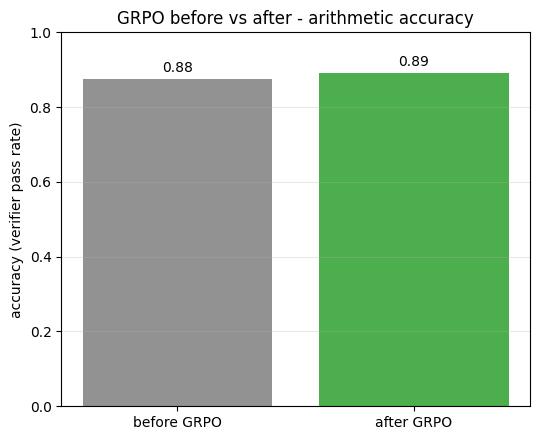
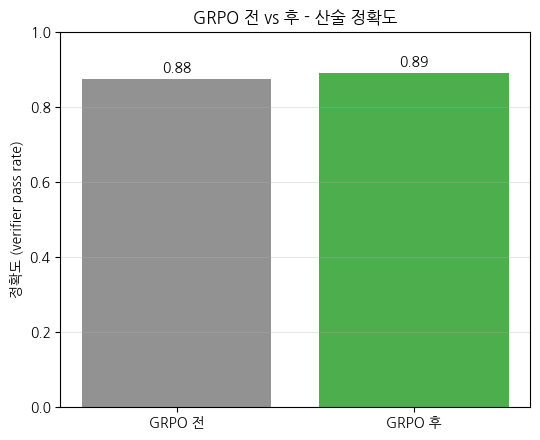
Ch 31 WikiDocs 변환 — executed 한글 plot 재생성
Claude-Session: https://claude.ai/code/session_01WacYaM89hZLnSLh4o6sjrA

diff --git a/pages/31-grpo-practice.md b/pages/31-grpo-practice.md
@@ -9,14 +9,15 @@
 **▶ 실행 결과**
 
 ```text
-   ━━━━━━━━━━━━━━━━━━━━━━━━━━━━━━━━━━━━━━━━ 825.1/825.1 kB 25.9 MB/s eta 0:00:00
-   ━━━━━━━━━━━━━━━━━━━━━━━━━━━━━━━━━━━━━━━━ 11.2/11.2 MB 97.3 MB/s eta 0:00:00
-   ━━━━━━━━━━━━━━━━━━━━━━━━━━━━━━━━━━━━━━━━ 555.1/555.1 kB 28.7 MB/s eta 0:00:00
-   ━━━━━━━━━━━━━━━━━━━━━━━━━━━━━━━━━━━━━━━━ 389.2/389.2 kB 24.4 MB/s eta 0:00:00
-   ━━━━━━━━━━━━━━━━━━━━━━━━━━━━╸━━━━━━━━━━━ 34.9/48.9 MB 192.2 MB/s eta 0:00:01
-   ━━━━━━━━━━━━━━━━━━━━━━━━━━━━━━━━━━━━━━━╸ 48.9/48.9 MB 156.2 MB/s eta 0:00:01
-   ━━━━━━━━━━━━━━━━━━━━━━━━━━━━━━━━━━━━━━━╸ 48.9/48.9 MB 156.2 MB/s eta 0:00:01
-   ━━━━━━━━━━━━━━━━━━━━━━━━━━━━━━━━━━━━━━━━ 48.9/48.9 MB 15.0 MB/s eta 0:00:00
+   ━━━━━━━━━━━━━━━━━━━━━━━━━━━━━━━━━━━━━━━━ 825.1/825.1 kB 21.8 MB/s eta 0:00:00
+   ━━━━━━━━━━━━━━━━━━━━━━╺━━━━━━━━━━━━━━━━━ 6.2/11.2 MB 185.6 MB/s eta 0:00:01
+   ━━━━━━━━━━━━━━━━━━━━━━━━━━━━━━━━━━━━━━━━ 11.2/11.2 MB 120.5 MB/s eta 0:00:00
+   ━━━━━━━━━━━━━━━━━━━━━━━━━━━━━━━━━━━━━━━━ 555.1/555.1 kB 48.9 MB/s eta 0:00:00
+   ━━━━━━━━━━━━━━━━━━━━━━━━━━━━━━━━━━━━━━━━ 389.2/389.2 kB 39.5 MB/s eta 0:00:00
+   ━━━━━━━━━━━━━━━━━━━━━━╺━━━━━━━━━━━━━━━━━ 26.9/48.9 MB 179.3 MB/s eta 0:00:01
+   ━━━━━━━━━━━━━━━━━━━━━━━━━━━━━━━━━━━━━━━╸ 48.9/48.9 MB 215.2 MB/s eta 0:00:01
+   ━━━━━━━━━━━━━━━━━━━━━━━━━━━━━━━━━━━━━━━╸ 48.9/48.9 MB 215.2 MB/s eta 0:00:01
+   ━━━━━━━━━━━━━━━━━━━━━━━━━━━━━━━━━━━━━━━━ 48.9/48.9 MB 19.4 MB/s eta 0:00:00
 ```
 
 ```python
@@ -62,6 +63,15 @@ random.seed(SEED)
 # fp16 은 CUDA 에서만 (MPS 는 미지원, CPU 는 의미 없음)
 USE_FP16 = (device.type == "cuda")
 print(f"use fp16     : {USE_FP16}")
+
+# matplotlib 한글 폰트 (Colab — NanumGothic). plot 의 한국어가 □ 로 깨지지 않게.
+import matplotlib.pyplot as plt, matplotlib.font_manager as fm, subprocess, os
+_fp = "/usr/share/fonts/truetype/nanum/NanumGothic.ttf"
+if not os.path.exists(_fp):
+    subprocess.run("apt-get -qq -y install fonts-nanum", shell=True)
+fm.fontManager.addfont(_fp)
+plt.rcParams["font.family"] = "NanumGothic"
+plt.rcParams["axes.unicode_minus"] = False
 ```
 
 **▶ 실행 결과**
@@ -167,7 +177,7 @@ transformer.h.{0...11}.attn.masked_bias | UNEXPECTED |  |
 
 Notes:
 - UNEXPECTED:	can be ignored when loading from different task/architecture; not ok if you expect identical arch.
-load done: 17.0s
+load done: 17.1s
 
 === policy model ===
 #params      : 125.16 M
@@ -196,7 +206,7 @@ sft_args = TrainingArguments(
 sft_trainer = Trainer(model=policy, args=sft_args, train_dataset=sft_tok,
                       data_collator=DataCollatorForLanguageModeling(tokenizer, mlm=False))
 t0 = time.time(); sft_trainer.train()
-print(f"SFT warmstart done ({(time.time()-t0)/60:.1f}min) - policy now knows the arithmetic format")
+print(f"SFT 워밍스타트 완료 ({(time.time()-t0)/60:.1f}min) - policy 가 이제 산술 포맷을 안다")
 ```
 
 **▶ 실행 결과**
@@ -205,7 +215,7 @@ print(f"SFT warmstart done ({(time.time()-t0)/60:.1f}min) - policy now knows the
 [transformers] warmup_ratio is deprecated and will be removed in v5.2. Use `warmup_steps` instead.
 [transformers] `loss_type=None` was set in the config but it is unrecognized. Using the default loss: `ForCausalLMLoss`.
 <IPython.core.display.HTML object>
-SFT warmstart done (1.2min) - policy now knows the arithmetic format
+SFT 워밍스타트 완료 (1.2min) - policy 가 이제 산술 포맷을 안다
 ```
 
 ```python
@@ -348,13 +358,13 @@ def pass_rate(model, prompt, gold, k=8):
 pool = make_arithmetic(500, max_operand=9, seed=SEED + 3)
 keep = [ex for ex in pool if 0.25 <= pass_rate(policy, ex["prompt"], ex["answer"]) <= 0.875]
 grpo_ds = Dataset.from_list(keep[:256]) if len(keep) >= 16 else grpo_ds  # 너무 적으면 원본 유지
-print(f"difficulty filter: pool {len(pool)} -> {len(grpo_ds)} medium-difficulty (groups mix correct/wrong -> advantage std>0)")
+print(f"난이도 필터: pool {len(pool)} -> 중간난이도 {len(grpo_ds)}개 (그룹에 정답·오답 섞임 → advantage std>0)")
 ```
 
 **▶ 실행 결과**
 
 ```text
-difficulty filter: pool 500 -> 256 medium-difficulty (groups mix correct/wrong -> advantage std>0)
+난이도 필터: pool 500 -> 중간난이도 256개 (그룹에 정답·오답 섞임 → advantage std>0)
 ```
 
 ```python
@@ -445,7 +455,7 @@ Notes:
 - UNEXPECTED:	can be ignored when loading from different task/architecture; not ok if you expect identical arch.
 <IPython.core.display.HTML object>
 === GRPO summary ===
-elapsed     : 0.49 min
+elapsed     : 0.48 min
 global_step : 32
 train_loss  : 5171634.2480
 final peak  : 2886 MiB
@@ -459,14 +469,14 @@ print(f"BEFORE GRPO - arithmetic accuracy                     : {acc_before:.3f}
 print(f"delta                                                 : {acc_after - acc_before:+.3f}")
 
 fig, ax = plt.subplots(figsize=(5.5, 4.5))
-bars = ax.bar(["before GRPO", "after GRPO"], [acc_before, acc_after],
+bars = ax.bar(["GRPO 전", "GRPO 후"], [acc_before, acc_after],
               color=["tab:gray", "tab:green"], alpha=0.85)
 for b, v in zip(bars, [acc_before, acc_after]):
     ax.text(b.get_x() + b.get_width() / 2, v + 0.01, f"{v:.2f}",
             ha="center", va="bottom")
-ax.set_ylabel("accuracy (verifier pass rate)")
+ax.set_ylabel("정확도 (verifier pass rate)")
 ax.set_ylim(0, 1)
-ax.set_title("GRPO before vs after - arithmetic accuracy")
+ax.set_title("GRPO 전 vs 후 - 산술 정확도")
 ax.grid(True, axis="y", alpha=0.3)
 plt.tight_layout(); plt.show()
 ```
@@ -498,12 +508,12 @@ fig, (ax1, ax2) = plt.subplots(1, 2, figsize=(13, 4))
 
 if reward_s:
     ax1.plot([s for s, _ in reward_s], [v for _, v in reward_s], "o-",
-             color="tab:green", label="reward (group mean)")
+             color="tab:green", label="reward (group 평균)")
 if reward_std_s:
     ax1.plot([s for s, _ in reward_std_s], [v for _, v in reward_std_s], "s--",
-             color="tab:orange", alpha=0.7, label="reward std (group diversity)")
+             color="tab:orange", alpha=0.7, label="reward std (group 다양성)")
 ax1.set_xlabel("step"); ax1.set_ylabel("reward")
-ax1.set_title("GRPO - reward and reward std")
+ax1.set_title("GRPO - reward 와 reward std")
 ax1.grid(True, alpha=0.3); ax1.legend()
 
 if steps and losses:
